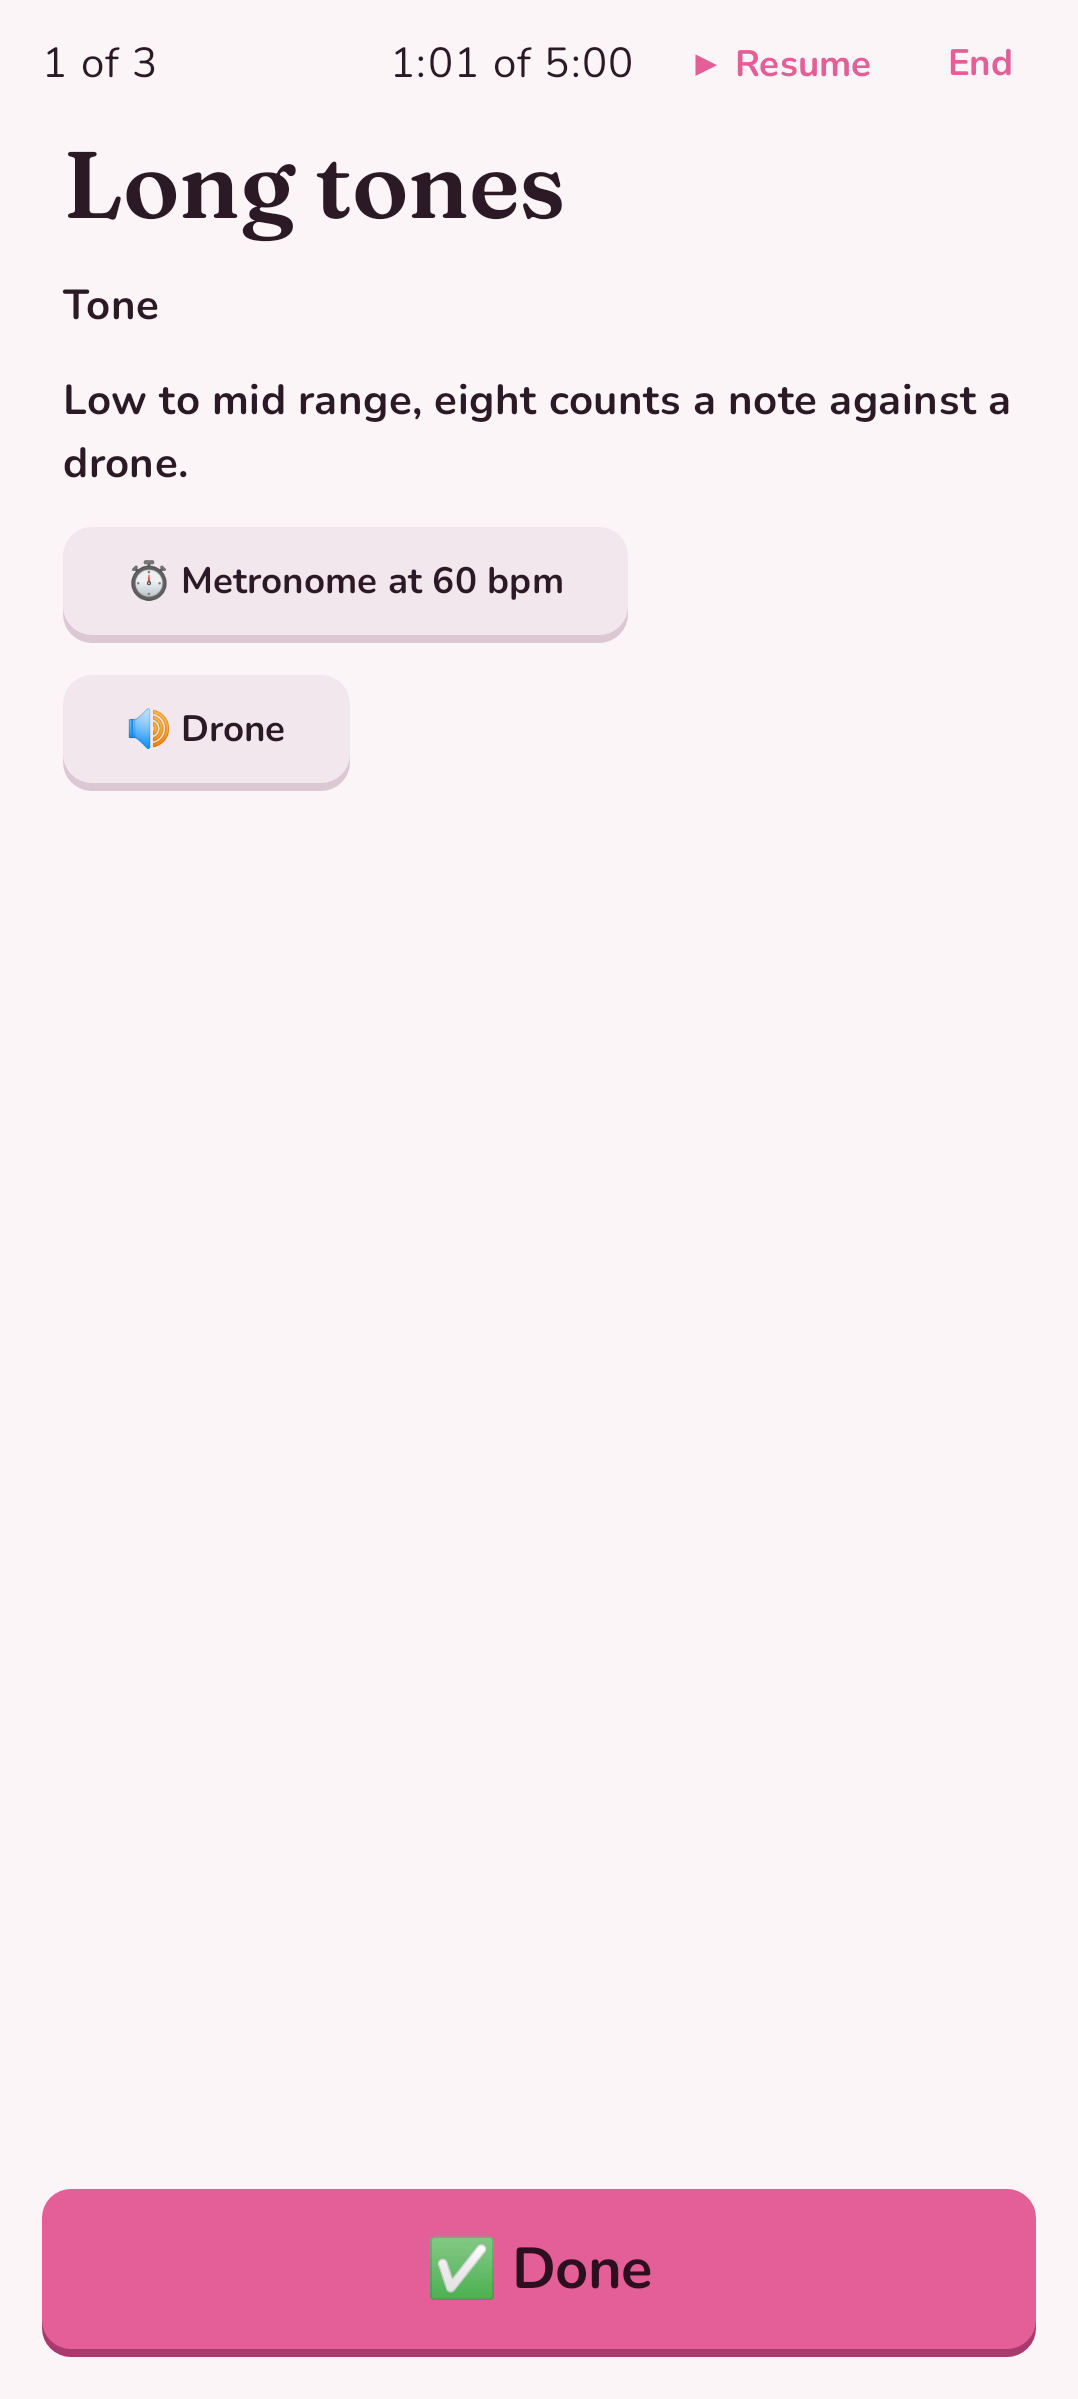
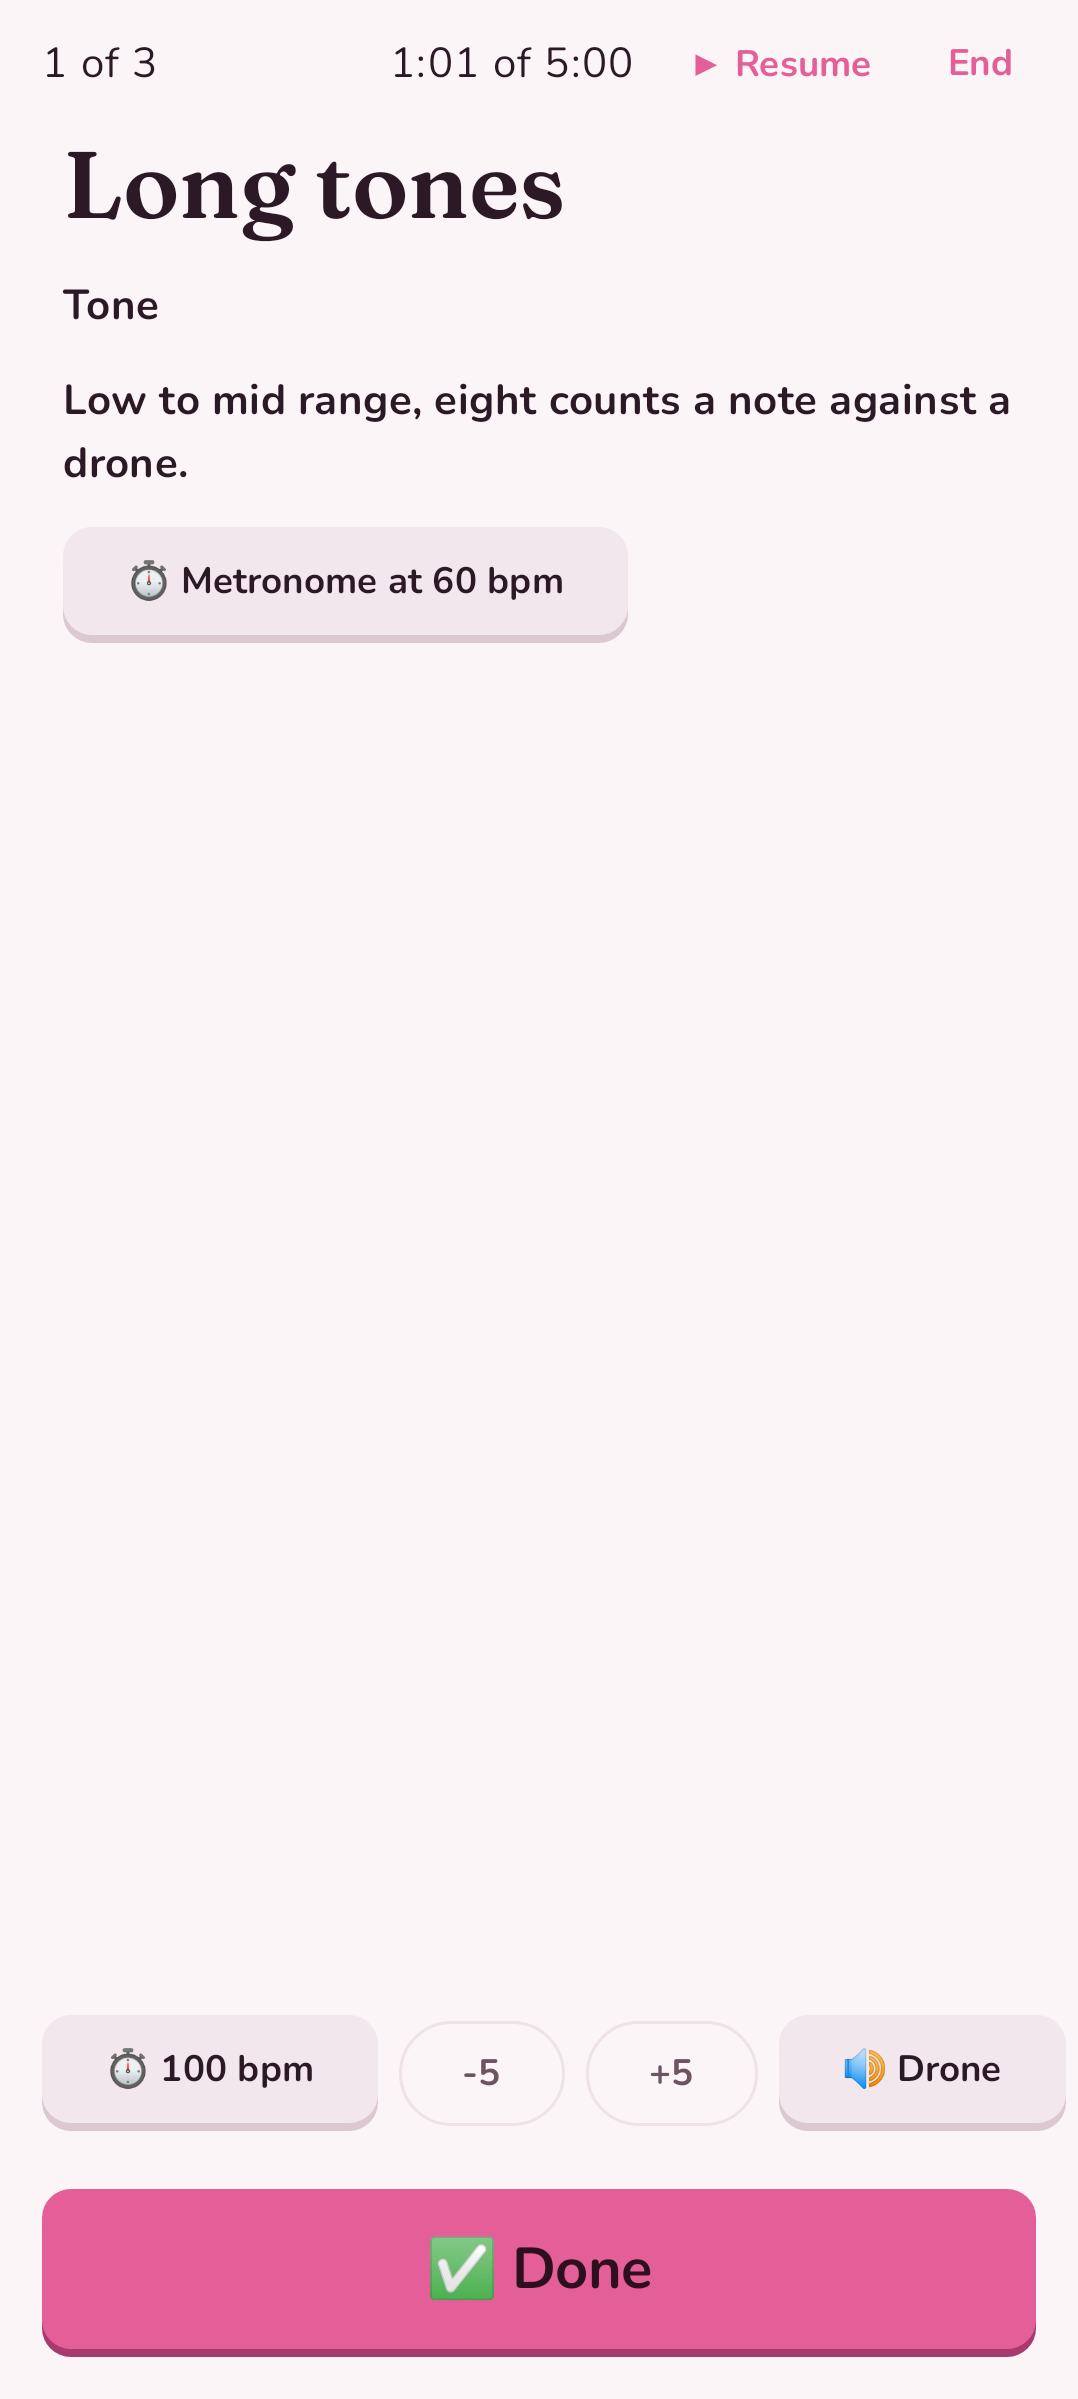
feat(app): control the metronome and drone from the session

Changed region(s): [[0.0612, 0.8328, 0.3367, 0.8945], [0.0612, 0.2776, 0.3061, 0.3393], [0.7347, 0.8328, 0.9796, 0.8945]]

diff --git a/app/src/main/java/com/larakelley/woodshed/ui/practice/PracticeScreen.kt b/app/src/main/java/com/larakelley/woodshed/ui/practice/PracticeScreen.kt
@@ -7,6 +7,7 @@ import androidx.activity.compose.BackHandler
 import androidx.activity.compose.rememberLauncherForActivityResult
 import androidx.activity.result.contract.ActivityResultContracts
 import androidx.compose.foundation.clickable
+import androidx.compose.foundation.horizontalScroll
 import androidx.compose.foundation.layout.Arrangement
 import androidx.compose.foundation.layout.Box
 import androidx.compose.foundation.layout.Column
@@ -333,6 +334,10 @@ fun SessionScreen(
   onStopDrone: () -> Unit = {},
   /** Back to the previous block, for a Done tapped too early. */
   onPrevious: () -> Unit = {},
+  metronomeRunning: Boolean = false,
+  bpm: Int = 100,
+  onToggleMetronome: () -> Unit = {},
+  onSetBpm: (Int) -> Unit = {},
 ) {
   @Composable
   fun DroneButton(label: String, pitchClass: Int?) {
@@ -401,7 +406,6 @@ fun SessionScreen(
               Text("⏱ Metronome at $bpm bpm", style = MaterialTheme.typography.labelLarge)
             }
           }
-          if (step.description.contains("drone", ignoreCase = true)) DroneButton("🔊 Drone", null)
         }
 
         is StepView.Solo -> {
@@ -423,9 +427,22 @@ fun SessionScreen(
           Spacer(Modifier.height(8.dp))
           Text(card.exercise, style = MaterialTheme.typography.headlineSmall)
           Text(card.instructions, style = MaterialTheme.typography.titleMedium)
-          card.concertPitchClass?.let { DroneButton("🔊 Drone on the key", it) }
         }
       }
+    }
+    // The metronome and drone stay in reach on every block, so stopping one never means leaving the session.
+    Row(
+      Modifier.fillMaxWidth().horizontalScroll(rememberScrollState()).padding(horizontal = 16.dp, vertical = 4.dp).testTag("session-tools"),
+      horizontalArrangement = Arrangement.spacedBy(8.dp),
+      verticalAlignment = Alignment.CenterVertically,
+    ) {
+      StickerButton(onClick = onToggleMetronome, sticker = neutralSticker, modifier = Modifier.height(44.dp).testTag("session-metronome")) {
+        Text(if (metronomeRunning) "◼ $bpm bpm" else "⏱ $bpm bpm", style = MaterialTheme.typography.labelLarge)
+      }
+      OutlinedButton(onClick = { onSetBpm(bpm - 5) }, modifier = Modifier.testTag("session-slower")) { Text("-5") }
+      OutlinedButton(onClick = { onSetBpm(bpm + 5) }, modifier = Modifier.testTag("session-faster")) { Text("+5") }
+      val tuneKey = (step as? StepView.Tune)?.card?.concertPitchClass
+      DroneButton(if (tuneKey != null) "🔊 Drone on the key" else "🔊 Drone", tuneKey)
     }
     when (step) {
       is StepView.Exercise ->

diff --git a/app/src/test/java/com/larakelley/woodshed/ui/practice/PracticeScreenTest.kt b/app/src/test/java/com/larakelley/woodshed/ui/practice/PracticeScreenTest.kt
@@ -78,6 +78,56 @@ class PracticeScreenTest {
   }
 
   @Test
+  fun theMetronomeAndDroneAreControlledFromTheSession() {
+    var toggled = 0
+    val bpms = mutableListOf<Int>()
+    val drones = mutableListOf<Int?>()
+    var droneStopped = false
+    var ui by mutableStateOf(PracticeUi(running = true, step = tuneStep.copy(card = card.copy(concertPitchClass = 7)), stepCount = 3))
+    var running by mutableStateOf(false)
+    var droning by mutableStateOf(false)
+    compose.mainClock.autoAdvance = false
+    compose.setContent {
+      SessionScreen(
+        ui,
+        onGrade = {},
+        onNext = {},
+        onStop = {},
+        dronePlaying = droning,
+        onDrone = {
+          drones += it
+          droning = true
+        },
+        onStopDrone = { droneStopped = true },
+        metronomeRunning = running,
+        bpm = 120,
+        onToggleMetronome = {
+          toggled++
+          running = !running
+        },
+        onSetBpm = { bpms += it },
+      )
+    }
+    compose.mainClock.advanceTimeByFrame()
+
+    compose.onNodeWithText("⏱ 120 bpm").performClick()
+    compose.mainClock.advanceTimeByFrame()
+    compose.mainClock.advanceTimeBy(500)
+    compose.onNodeWithText("◼ 120 bpm").assertExists()
+    compose.onNodeWithTag("session-faster").performClick()
+    compose.onNodeWithTag("session-slower").performClick()
+    assertEquals(1, toggled)
+    assertEquals(listOf(125, 115), bpms)
+
+    // On a tune, the drone sounds the card's key; a second tap stops it.
+    compose.onNodeWithTag("use-drone").performClick()
+    compose.mainClock.advanceTimeByFrame()
+    compose.onNodeWithTag("use-drone").performClick()
+    assertEquals(listOf<Int?>(7), drones)
+    assertTrue(droneStopped)
+  }
+
+  @Test
   fun theFirstStepHasNoBack() {
     session(PracticeUi(running = true, step = tuneStep, stepCount = 3))
     compose.onNodeWithTag("step-previous").assertDoesNotExist()

diff --git a/app/src/main/java/com/larakelley/woodshed/MainActivity.kt b/app/src/main/java/com/larakelley/woodshed/MainActivity.kt
@@ -149,6 +149,10 @@ class MainActivity : ComponentActivity() {
                     },
                     onStopDrone = app.drone::stop,
                     onPrevious = practice::previous,
+                    metronomeRunning = click.running,
+                    bpm = click.bpm,
+                    onToggleMetronome = metronome::toggle,
+                    onSetBpm = metronome::setBpm,
                   )
                 } else {
                   LaunchedEffect(Unit) { practice.refresh() }
